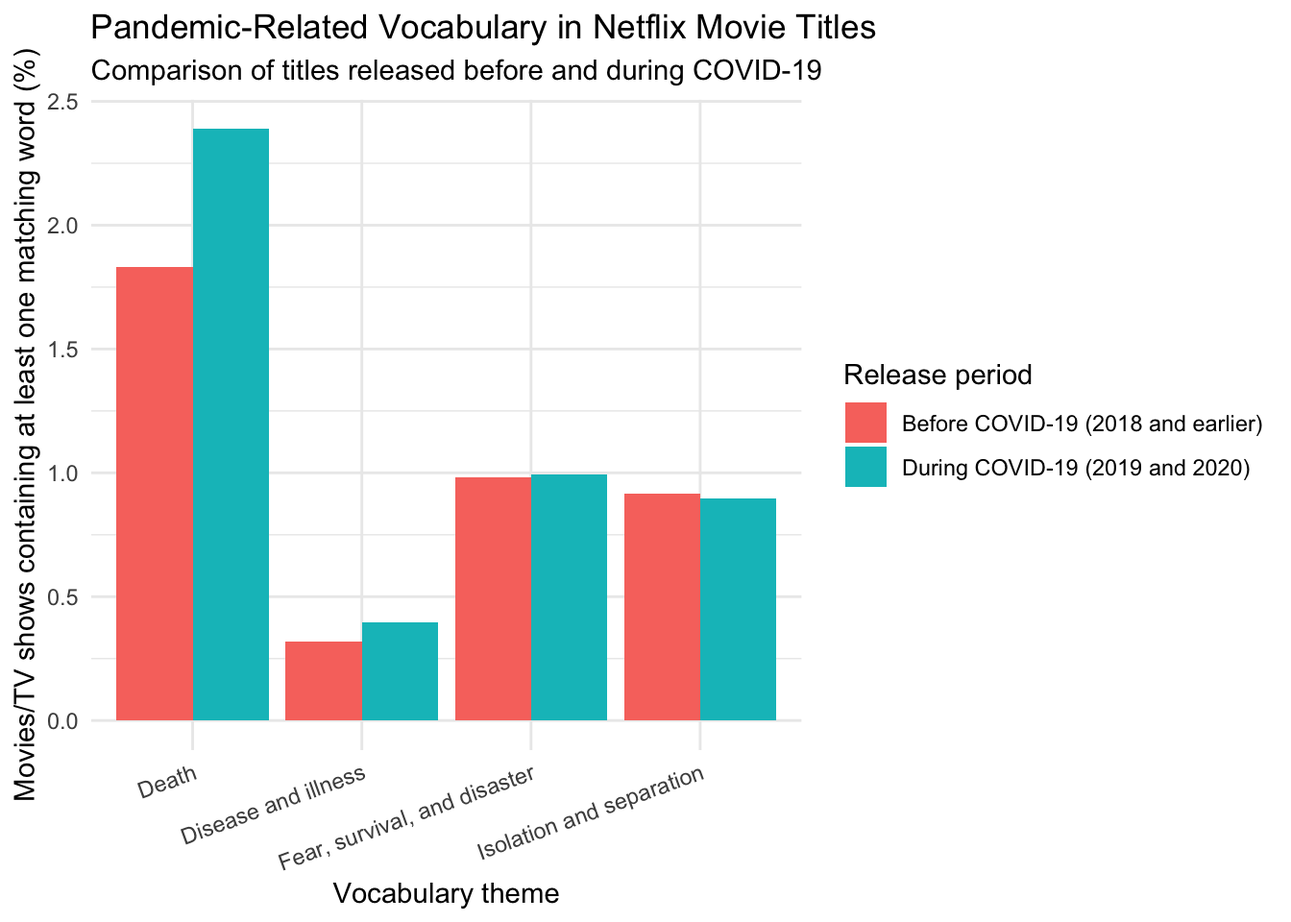
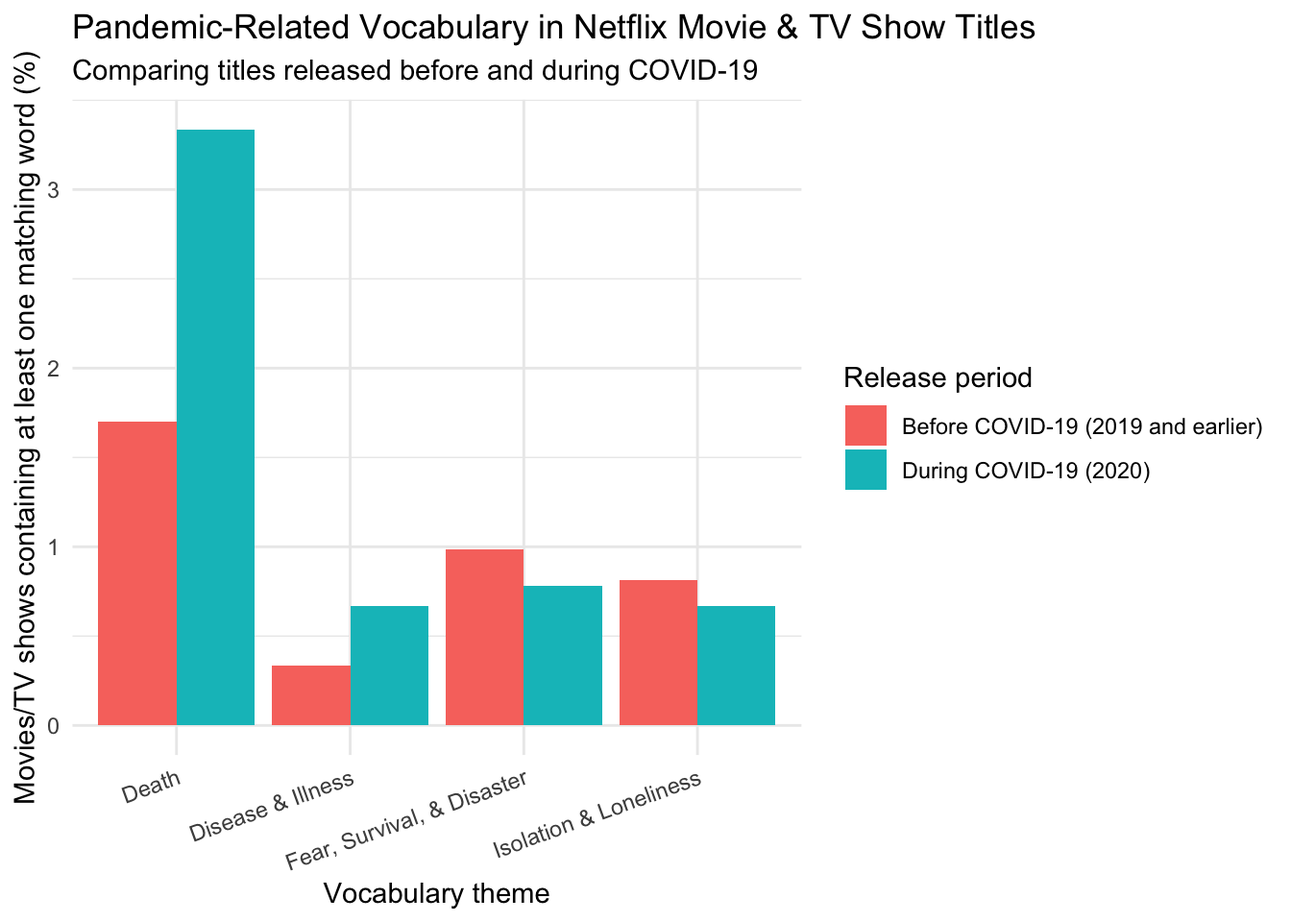
more edits to my analysis of the visualizations

diff --git a/docs/netflixanalysis.html b/docs/netflixanalysis.html
@@ -409,13 +409,14 @@ pre > code.sourceCode > span > a:first-child::before { text-decoration: underlin
 </div>
 <section id="introduction" class="level1">
 <h1>Introduction</h1>
-<p>Movie and TV show titles are the first things users look at when trying to decide what to watch on streaming platforms like Netflix. While titles are often short, they are meant to draw audiences in, convince them to watch a movie/show, and hint at what the movie might be about. Thus, for my project, I am looking at what types of words occur in titles throughout genres and during different time periods, to see ___.</p>
+<p>Movie and TV show titles are the first things users look at when trying to decide what to watch on streaming platforms like Netflix. While titles are often short, they are meant to draw audiences in, convince them to watch a movie/show, and hint at what the movie might be about. Thus, for my project, I am looking at the words that appear in Netflix titles across genres and release years to explore how title vocabulary varies across genres and whether the prevalence of specific word themes differs between movies released in different time periods.</p>
 <p>My first visualization explores the most frequent words that appear in titles across genres. Specifically, I am looking at 14 genres: Action, Comedy, Drama, Horror, Romance, Sci-Fi &amp; Fantasy, Thriller, Mystery, Documentaries, Musical, Crime, Family, International, and Miscellaneous.</p>
 <p>Next, I will look at how title vocabulary changed before and during Covid-19. Specifically, I want to see whether words that center around disease, death, isolation, and other pandemic-related imagery were more common in movie titles during Covid as opposed to before.</p>
 </section>
 <section id="about-the-data" class="level1">
 <h1>About the Data</h1>
 <p>The data for this analysis come from the <a href="https://github.com/rfordatascience/tidytuesday/tree/main/data/2021/2021-04-20">TidyTuesday Netflix Titles dataset</a>.</p>
+<p>The dataset was also uploaded to Kaggle by Shivam Bansal. Here is the link to this <a href="https://www.kaggle.com/datasets/shivamb/netflix-shows">Kaggle Netflix Dataset by Shivam Bansal</a>.</p>
 <section id="about-the-dataset" class="level3">
 <h3 class="anchored" data-anchor-id="about-the-dataset">About the Dataset</h3>
 <p>This dataset comes from Kaggle and was uploaded to the website by Shivam Bansal. The dataset consists of movies and TV shows available on Netflix as of 2020. Additionally, the dataset has been collected from Flixable, a third-party Netflix search engine.</p>
@@ -431,39 +432,38 @@ pre > code.sourceCode > span > a:first-child::before { text-decoration: underlin
 <span id="cb2-2"><a href="#cb2-2" aria-hidden="true" tabindex="-1"></a>cleaned_titles <span class="ot">&lt;-</span> netflix_titles <span class="sc">|&gt;</span></span>
 <span id="cb2-3"><a href="#cb2-3" aria-hidden="true" tabindex="-1"></a>    <span class="fu">select</span>(show_id, type, title, listed_in, release_year) <span class="sc">|&gt;</span></span>
 <span id="cb2-4"><a href="#cb2-4" aria-hidden="true" tabindex="-1"></a>    <span class="fu">filter</span>(<span class="sc">!</span><span class="fu">is.na</span>(title), <span class="sc">!</span><span class="fu">is.na</span>(listed_in)) <span class="sc">|&gt;</span></span>
-<span id="cb2-5"><a href="#cb2-5" aria-hidden="true" tabindex="-1"></a>    <span class="fu">separate_rows</span>(listed_in, <span class="at">sep =</span> <span class="st">", "</span>) <span class="sc">|&gt;</span></span>
-<span id="cb2-6"><a href="#cb2-6" aria-hidden="true" tabindex="-1"></a>    <span class="fu">separate_rows</span>(listed_in, <span class="at">sep =</span> <span class="st">"&amp; "</span>)</span>
-<span id="cb2-7"><a href="#cb2-7" aria-hidden="true" tabindex="-1"></a></span>
-<span id="cb2-8"><a href="#cb2-8" aria-hidden="true" tabindex="-1"></a><span class="co">#adding variables and formatting the cleaned_titles dataset</span></span>
-<span id="cb2-9"><a href="#cb2-9" aria-hidden="true" tabindex="-1"></a>cleaned_titles <span class="ot">&lt;-</span> cleaned_titles <span class="sc">|&gt;</span></span>
-<span id="cb2-10"><a href="#cb2-10" aria-hidden="true" tabindex="-1"></a>    <span class="fu">mutate</span>(<span class="at">listed_in =</span> <span class="fu">str_to_lower</span>(listed_in)) <span class="sc">|&gt;</span> <span class="co">#string function 1</span></span>
-<span id="cb2-11"><a href="#cb2-11" aria-hidden="true" tabindex="-1"></a>    <span class="fu">mutate</span>(<span class="at">genre =</span> <span class="fu">ifelse</span>(</span>
-<span id="cb2-12"><a href="#cb2-12" aria-hidden="true" tabindex="-1"></a>            <span class="fu">str_detect</span>(listed_in, <span class="st">"action"</span>) <span class="sc">|</span> <span class="fu">str_detect</span>(listed_in, <span class="st">"adventure"</span>), <span class="st">"Action"</span>, <span class="co">#string function 2</span></span>
-<span id="cb2-13"><a href="#cb2-13" aria-hidden="true" tabindex="-1"></a></span>
-<span id="cb2-14"><a href="#cb2-14" aria-hidden="true" tabindex="-1"></a>            <span class="fu">ifelse</span>(<span class="fu">str_detect</span>(listed_in, <span class="st">"comed"</span>), <span class="st">"Comedy"</span>,</span>
-<span id="cb2-15"><a href="#cb2-15" aria-hidden="true" tabindex="-1"></a></span>
-<span id="cb2-16"><a href="#cb2-16" aria-hidden="true" tabindex="-1"></a>            <span class="fu">ifelse</span>(<span class="fu">str_detect</span>(listed_in, <span class="st">"drama"</span>), <span class="st">"Drama"</span>,</span>
-<span id="cb2-17"><a href="#cb2-17" aria-hidden="true" tabindex="-1"></a></span>
-<span id="cb2-18"><a href="#cb2-18" aria-hidden="true" tabindex="-1"></a>            <span class="fu">ifelse</span>(<span class="fu">str_detect</span>(listed_in, <span class="st">"horror"</span>), <span class="st">"Horror"</span>,</span>
-<span id="cb2-19"><a href="#cb2-19" aria-hidden="true" tabindex="-1"></a></span>
-<span id="cb2-20"><a href="#cb2-20" aria-hidden="true" tabindex="-1"></a>            <span class="fu">ifelse</span>(<span class="fu">str_detect</span>(listed_in, <span class="st">"romant"</span>), <span class="st">"Romance"</span>,</span>
-<span id="cb2-21"><a href="#cb2-21" aria-hidden="true" tabindex="-1"></a></span>
-<span id="cb2-22"><a href="#cb2-22" aria-hidden="true" tabindex="-1"></a>            <span class="fu">ifelse</span>(<span class="fu">str_detect</span>(listed_in, <span class="st">"sci-fi"</span>) <span class="sc">|</span> <span class="fu">str_detect</span>(listed_in, <span class="st">"fantasy"</span>), <span class="st">"Sci-Fi &amp; Fantasy"</span>,</span>
-<span id="cb2-23"><a href="#cb2-23" aria-hidden="true" tabindex="-1"></a></span>
-<span id="cb2-24"><a href="#cb2-24" aria-hidden="true" tabindex="-1"></a>            <span class="fu">ifelse</span>(<span class="fu">str_detect</span>(listed_in, <span class="st">"thriller"</span>), <span class="st">"Thriller"</span>,</span>
-<span id="cb2-25"><a href="#cb2-25" aria-hidden="true" tabindex="-1"></a></span>
-<span id="cb2-26"><a href="#cb2-26" aria-hidden="true" tabindex="-1"></a>            <span class="fu">ifelse</span>(<span class="fu">str_detect</span>(listed_in, <span class="st">"myster"</span>), <span class="st">"Mystery"</span>,</span>
-<span id="cb2-27"><a href="#cb2-27" aria-hidden="true" tabindex="-1"></a></span>
-<span id="cb2-28"><a href="#cb2-28" aria-hidden="true" tabindex="-1"></a>            <span class="fu">ifelse</span>(<span class="fu">str_detect</span>(listed_in, <span class="st">"docu"</span>) <span class="sc">|</span> <span class="fu">str_detect</span>(listed_in, <span class="st">"nature"</span>) <span class="sc">|</span> <span class="fu">str_detect</span>(listed_in, <span class="st">"science"</span>), <span class="st">"Documentary"</span>,</span>
-<span id="cb2-29"><a href="#cb2-29" aria-hidden="true" tabindex="-1"></a></span>
-<span id="cb2-30"><a href="#cb2-30" aria-hidden="true" tabindex="-1"></a>            <span class="fu">ifelse</span>(<span class="fu">str_detect</span>(listed_in, <span class="st">"music"</span>), <span class="st">"Musical"</span>,</span>
-<span id="cb2-31"><a href="#cb2-31" aria-hidden="true" tabindex="-1"></a></span>
-<span id="cb2-32"><a href="#cb2-32" aria-hidden="true" tabindex="-1"></a>            <span class="fu">ifelse</span>(<span class="fu">str_detect</span>(listed_in, <span class="st">"crime"</span>), <span class="st">"Crime"</span>,</span>
-<span id="cb2-33"><a href="#cb2-33" aria-hidden="true" tabindex="-1"></a></span>
-<span id="cb2-34"><a href="#cb2-34" aria-hidden="true" tabindex="-1"></a>            <span class="fu">ifelse</span>(<span class="fu">str_detect</span>(listed_in, <span class="st">"children"</span>) <span class="sc">|</span> <span class="fu">str_detect</span>(listed_in, <span class="st">"kid"</span>) <span class="sc">|</span> <span class="fu">str_detect</span>(listed_in, <span class="st">"teen"</span>) <span class="sc">|</span> <span class="fu">str_detect</span>(listed_in, <span class="st">"family"</span>), <span class="st">"Family"</span>, </span>
-<span id="cb2-35"><a href="#cb2-35" aria-hidden="true" tabindex="-1"></a></span>
-<span id="cb2-36"><a href="#cb2-36" aria-hidden="true" tabindex="-1"></a>            <span class="fu">ifelse</span>(<span class="fu">str_detect</span>(listed_in, <span class="st">"international"</span>) <span class="sc">|</span> <span class="fu">str_detect</span>(listed_in, <span class="st">"british"</span>) <span class="sc">|</span> <span class="fu">str_detect</span>(listed_in, <span class="st">"korean"</span>) <span class="sc">|</span> <span class="fu">str_detect</span>(listed_in, <span class="st">"spanish"</span>), <span class="st">"International"</span>,</span>
-<span id="cb2-37"><a href="#cb2-37" aria-hidden="true" tabindex="-1"></a>            <span class="st">"Miscellaneous"</span>))))))))))))))</span></code></pre></div><button title="Copy to Clipboard" class="code-copy-button"><i class="bi"></i></button></div>
+<span id="cb2-5"><a href="#cb2-5" aria-hidden="true" tabindex="-1"></a>    <span class="fu">separate_rows</span>(listed_in, <span class="at">sep =</span> <span class="st">", "</span>)</span>
+<span id="cb2-6"><a href="#cb2-6" aria-hidden="true" tabindex="-1"></a></span>
+<span id="cb2-7"><a href="#cb2-7" aria-hidden="true" tabindex="-1"></a><span class="co">#adding variables and formatting the cleaned_titles dataset</span></span>
+<span id="cb2-8"><a href="#cb2-8" aria-hidden="true" tabindex="-1"></a>cleaned_titles <span class="ot">&lt;-</span> cleaned_titles <span class="sc">|&gt;</span></span>
+<span id="cb2-9"><a href="#cb2-9" aria-hidden="true" tabindex="-1"></a>    <span class="fu">mutate</span>(<span class="at">listed_in =</span> <span class="fu">str_to_lower</span>(listed_in)) <span class="sc">|&gt;</span> <span class="co">#string function 1</span></span>
+<span id="cb2-10"><a href="#cb2-10" aria-hidden="true" tabindex="-1"></a>    <span class="fu">mutate</span>(<span class="at">genre =</span> <span class="fu">ifelse</span>(</span>
+<span id="cb2-11"><a href="#cb2-11" aria-hidden="true" tabindex="-1"></a>            <span class="fu">str_detect</span>(listed_in, <span class="st">"action"</span>), <span class="st">"Action"</span>, <span class="co">#string function 2</span></span>
+<span id="cb2-12"><a href="#cb2-12" aria-hidden="true" tabindex="-1"></a></span>
+<span id="cb2-13"><a href="#cb2-13" aria-hidden="true" tabindex="-1"></a>            <span class="fu">ifelse</span>(<span class="fu">str_detect</span>(listed_in, <span class="st">"comed"</span>), <span class="st">"Comedy"</span>,</span>
+<span id="cb2-14"><a href="#cb2-14" aria-hidden="true" tabindex="-1"></a></span>
+<span id="cb2-15"><a href="#cb2-15" aria-hidden="true" tabindex="-1"></a>            <span class="fu">ifelse</span>(<span class="fu">str_detect</span>(listed_in, <span class="st">"drama"</span>), <span class="st">"Drama"</span>,</span>
+<span id="cb2-16"><a href="#cb2-16" aria-hidden="true" tabindex="-1"></a></span>
+<span id="cb2-17"><a href="#cb2-17" aria-hidden="true" tabindex="-1"></a>            <span class="fu">ifelse</span>(<span class="fu">str_detect</span>(listed_in, <span class="st">"horror"</span>), <span class="st">"Horror"</span>,</span>
+<span id="cb2-18"><a href="#cb2-18" aria-hidden="true" tabindex="-1"></a></span>
+<span id="cb2-19"><a href="#cb2-19" aria-hidden="true" tabindex="-1"></a>            <span class="fu">ifelse</span>(<span class="fu">str_detect</span>(listed_in, <span class="st">"romant"</span>), <span class="st">"Romance"</span>,</span>
+<span id="cb2-20"><a href="#cb2-20" aria-hidden="true" tabindex="-1"></a></span>
+<span id="cb2-21"><a href="#cb2-21" aria-hidden="true" tabindex="-1"></a>            <span class="fu">ifelse</span>(<span class="fu">str_detect</span>(listed_in, <span class="st">"sci-fi"</span>) <span class="sc">|</span> <span class="fu">str_detect</span>(listed_in, <span class="st">"fantasy"</span>), <span class="st">"Sci-Fi &amp; Fantasy"</span>,</span>
+<span id="cb2-22"><a href="#cb2-22" aria-hidden="true" tabindex="-1"></a></span>
+<span id="cb2-23"><a href="#cb2-23" aria-hidden="true" tabindex="-1"></a>            <span class="fu">ifelse</span>(<span class="fu">str_detect</span>(listed_in, <span class="st">"thriller"</span>), <span class="st">"Thriller"</span>,</span>
+<span id="cb2-24"><a href="#cb2-24" aria-hidden="true" tabindex="-1"></a></span>
+<span id="cb2-25"><a href="#cb2-25" aria-hidden="true" tabindex="-1"></a>            <span class="fu">ifelse</span>(<span class="fu">str_detect</span>(listed_in, <span class="st">"myster"</span>), <span class="st">"Mystery"</span>,</span>
+<span id="cb2-26"><a href="#cb2-26" aria-hidden="true" tabindex="-1"></a></span>
+<span id="cb2-27"><a href="#cb2-27" aria-hidden="true" tabindex="-1"></a>            <span class="fu">ifelse</span>(<span class="fu">str_detect</span>(listed_in, <span class="st">"docu"</span>) <span class="sc">|</span> <span class="fu">str_detect</span>(listed_in, <span class="st">"nature"</span>) <span class="sc">|</span> <span class="fu">str_detect</span>(listed_in, <span class="st">"science"</span>), <span class="st">"Documentary"</span>,</span>
+<span id="cb2-28"><a href="#cb2-28" aria-hidden="true" tabindex="-1"></a></span>
+<span id="cb2-29"><a href="#cb2-29" aria-hidden="true" tabindex="-1"></a>            <span class="fu">ifelse</span>(<span class="fu">str_detect</span>(listed_in, <span class="st">"music"</span>), <span class="st">"Musical"</span>,</span>
+<span id="cb2-30"><a href="#cb2-30" aria-hidden="true" tabindex="-1"></a></span>
+<span id="cb2-31"><a href="#cb2-31" aria-hidden="true" tabindex="-1"></a>            <span class="fu">ifelse</span>(<span class="fu">str_detect</span>(listed_in, <span class="st">"crime"</span>), <span class="st">"Crime"</span>,</span>
+<span id="cb2-32"><a href="#cb2-32" aria-hidden="true" tabindex="-1"></a></span>
+<span id="cb2-33"><a href="#cb2-33" aria-hidden="true" tabindex="-1"></a>            <span class="fu">ifelse</span>(<span class="fu">str_detect</span>(listed_in, <span class="st">"children"</span>) <span class="sc">|</span> <span class="fu">str_detect</span>(listed_in, <span class="st">"kid"</span>) <span class="sc">|</span> <span class="fu">str_detect</span>(listed_in, <span class="st">"teen"</span>) <span class="sc">|</span> <span class="fu">str_detect</span>(listed_in, <span class="st">"family"</span>), <span class="st">"Family"</span>, </span>
+<span id="cb2-34"><a href="#cb2-34" aria-hidden="true" tabindex="-1"></a></span>
+<span id="cb2-35"><a href="#cb2-35" aria-hidden="true" tabindex="-1"></a>            <span class="fu">ifelse</span>(<span class="fu">str_detect</span>(listed_in, <span class="st">"international"</span>) <span class="sc">|</span> <span class="fu">str_detect</span>(listed_in, <span class="st">"british"</span>) <span class="sc">|</span> <span class="fu">str_detect</span>(listed_in, <span class="st">"korean"</span>) <span class="sc">|</span> <span class="fu">str_detect</span>(listed_in, <span class="st">"spanish"</span>), <span class="st">"International"</span>,</span>
+<span id="cb2-36"><a href="#cb2-36" aria-hidden="true" tabindex="-1"></a>            <span class="st">"Miscellaneous"</span>))))))))))))))</span></code></pre></div><button title="Copy to Clipboard" class="code-copy-button"><i class="bi"></i></button></div>
 </details>
 </div>
 <section id="visualization-1" class="level2">
@@ -515,8 +515,8 @@ pre > code.sourceCode > span > a:first-child::before { text-decoration: underlin
 </div>
 </div>
 <p>For this first visualization, I wanted to see how the most frequent words in movie/TV show titles differed across the various genres I chose. To do so, I sorted each of the 42 “listed_in” categories in the original dataset into 14 genres (Action, Comedy, Drama, Horror, Romance, Sci-Fi &amp; Fantasy, Thriller, Mystery, Documentaries, Musical, Crime, Family, International, and Miscellaneous) and identified the top 3 words that appeared in movie titles within all of these genres.</p>
-<p>Some of the results I found were expected, such as with the crime genre’s most popular words in titles (“murder”, “killer”, and “crime”) or with the words in the documentary genre (“world”, “story”, “life”). Additionally, there are words that appear throughout many genres, like “love” and “christmas”. However, the visual also shows us that many of the genres have titles with unintuitive words. For example, “black” is a word that shows up in many tites across genres, but I can’t think of why that is.</p>
-<p>Ultimately, looking at this visual, it is clear that the connotations of words are considered when creating titles across genres. For example, words like “christmas” evoke feelings of comfort and joy, and these words are most frequently in romance, comedy, and family titles. On the other hand, words like “murder” and “killer” in movie/TV show titles suggest the title will be a crime-related story, and words like “house” and “dark” used in combination can suggest a horror/thriller title.</p>
+<p>Some of the results I found were expected, such as with the crime genre’s most popular words in titles (“murder”, “killer”, and “crime”) or with the words in the documentary genre (“world”, “story”, “life”). Additionally, there are words that appear throughout many genres, like “love” and “christmas”. However, the visual also shows us that many of the genres have titles with unintuitive words. For example, “black” is a word that shows up in many titles across genres, but I can’t think of why that is.</p>
+<p>Ultimately, this visualization suggests that title vocabulary reflects some of the themes and feelings associated with different genres. For example, words like “christmas” evoke feelings of comfort and joy, and these words are most frequently in romance, comedy, and family titles. On the other hand, words like “murder” and “killer” in movie/TV show titles suggest the title will be a crime-related story, and words like “house” and “dark” used in combination can suggest a horror/thriller title.</p>
 </section>
 <section id="visualization-2" class="level2">
 <h2 class="anchored" data-anchor-id="visualization-2">Visualization 2</h2>
@@ -525,12 +525,12 @@ pre > code.sourceCode > span > a:first-child::before { text-decoration: underlin
 <summary>Show the code</summary>
 <div class="code-copy-outer-scaffold"><div class="sourceCode cell-code" id="cb4"><pre class="sourceCode r code-with-copy"><code class="sourceCode r"><span id="cb4-1"><a href="#cb4-1" aria-hidden="true" tabindex="-1"></a><span class="co"># Select movies with known release years</span></span>
 <span id="cb4-2"><a href="#cb4-2" aria-hidden="true" tabindex="-1"></a>covid_titles <span class="ot">&lt;-</span> netflix_titles <span class="sc">|&gt;</span></span>
-<span id="cb4-3"><a href="#cb4-3" aria-hidden="true" tabindex="-1"></a>    <span class="fu">filter</span>(type <span class="sc">==</span> <span class="st">"Movie"</span>, <span class="sc">!</span><span class="fu">is.na</span>(title),<span class="sc">!</span><span class="fu">is.na</span>(release_year)) <span class="sc">|&gt;</span></span>
-<span id="cb4-4"><a href="#cb4-4" aria-hidden="true" tabindex="-1"></a>    <span class="fu">mutate</span>(<span class="at">period =</span> <span class="fu">ifelse</span>(release_year <span class="sc">&lt;=</span> <span class="dv">2018</span>, <span class="st">"Before COVID-19 (2018 and earlier)"</span>, <span class="st">"During COVID-19 (2019 and 2020)"</span>)) <span class="sc">|&gt;</span></span>
+<span id="cb4-3"><a href="#cb4-3" aria-hidden="true" tabindex="-1"></a>    <span class="fu">filter</span>(<span class="sc">!</span><span class="fu">is.na</span>(title),<span class="sc">!</span><span class="fu">is.na</span>(release_year)) <span class="sc">|&gt;</span></span>
+<span id="cb4-4"><a href="#cb4-4" aria-hidden="true" tabindex="-1"></a>    <span class="fu">mutate</span>(<span class="at">period =</span> <span class="fu">ifelse</span>(release_year <span class="sc">&lt;=</span> <span class="dv">2019</span>, <span class="st">"Before COVID-19 (2019 and earlier)"</span>, <span class="st">"During COVID-19 (2020)"</span>)) <span class="sc">|&gt;</span></span>
 <span id="cb4-5"><a href="#cb4-5" aria-hidden="true" tabindex="-1"></a></span>
 <span id="cb4-6"><a href="#cb4-6" aria-hidden="true" tabindex="-1"></a>    <span class="fu">mutate</span>(<span class="at">disease =</span> <span class="fu">str_detect</span>(<span class="fu">str_to_lower</span>(title), <span class="st">"</span><span class="sc">\\</span><span class="st">b(covid|coronavirus|virus|viral|pandemic|epidemic|infection|infected|infectious|disease|plague|outbreak|fever|sick|sickness|illness|ill|contagion|contagious|germ|symptom|cough|flu|influenza|bacteria|bacterial|vaccine|vaccination|quarantine|inject|injection|shot|hospital|nurse|doctor)</span><span class="sc">\\</span><span class="st">b"</span>))<span class="sc">|&gt;</span></span>
 <span id="cb4-7"><a href="#cb4-7" aria-hidden="true" tabindex="-1"></a>    </span>
-<span id="cb4-8"><a href="#cb4-8" aria-hidden="true" tabindex="-1"></a>    <span class="fu">mutate</span>(<span class="at">death =</span> <span class="fu">str_detect</span>(<span class="fu">str_to_lower</span>(title),<span class="st">"</span><span class="sc">\\</span><span class="st">b(death|dead|dying|die|died|dies|funeral|grave|graveyard|morgue|corpse|cemetery|burial|bury|buried|murder|murdered|killer|kill|killed|suicide|fatal|fatality|gore|blood|bloody|massacre|killing|slaughter)</span><span class="sc">\\</span><span class="st">b"</span>)) <span class="sc">|&gt;</span></span>
+<span id="cb4-8"><a href="#cb4-8" aria-hidden="true" tabindex="-1"></a>    <span class="fu">mutate</span>(<span class="at">death =</span> <span class="fu">str_detect</span>(<span class="fu">str_to_lower</span>(title),<span class="st">"</span><span class="sc">\\</span><span class="st">b(death|dead|dying|die|died|dies|funeral|grave|graveyard|morgue|corpse|cemetery|burial|bury|buried|murder|murdered|killer|kill|killed|suicide|fatal|fatality|blood|bloody)</span><span class="sc">\\</span><span class="st">b"</span>)) <span class="sc">|&gt;</span></span>
 <span id="cb4-9"><a href="#cb4-9" aria-hidden="true" tabindex="-1"></a>    </span>
 <span id="cb4-10"><a href="#cb4-10" aria-hidden="true" tabindex="-1"></a>    <span class="fu">mutate</span>(<span class="at">isolation =</span> <span class="fu">str_detect</span>(<span class="fu">str_to_lower</span>(title),<span class="st">"</span><span class="sc">\\</span><span class="st">b(alone|lonely|loneliness|isolation|isolated|quarantine|lockdown|trapped|confined|separated|solitude|abandoned|stranded|deserted|hidden|missing|escape|prison|captive|imprisoned|locked|room|cabin|shelter|exile|outsider|cage|lone|lock)</span><span class="sc">\\</span><span class="st">b"</span>)) <span class="sc">|&gt;</span></span>
 <span id="cb4-11"><a href="#cb4-11" aria-hidden="true" tabindex="-1"></a></span>
@@ -553,15 +553,15 @@ pre > code.sourceCode > span > a:first-child::before { text-decoration: underlin
 <span id="cb4-28"><a href="#cb4-28" aria-hidden="true" tabindex="-1"></a>covid_word_counts <span class="ot">&lt;-</span> covid_word_counts <span class="sc">|&gt;</span></span>
 <span id="cb4-29"><a href="#cb4-29" aria-hidden="true" tabindex="-1"></a>    <span class="fu">left_join</span>(period_totals, <span class="at">by =</span> <span class="st">"period"</span>) <span class="sc">|&gt;</span></span>
 <span id="cb4-30"><a href="#cb4-30" aria-hidden="true" tabindex="-1"></a>    <span class="fu">mutate</span>(<span class="at">percentage =</span> titles_with_words <span class="sc">/</span> total_titles <span class="sc">*</span> <span class="dv">100</span>,</span>
-<span id="cb4-31"><a href="#cb4-31" aria-hidden="true" tabindex="-1"></a>           <span class="at">theme =</span> <span class="fu">ifelse</span>(theme <span class="sc">==</span> <span class="st">"disease"</span>, <span class="st">"Disease and illness"</span>, <span class="fu">ifelse</span>(theme <span class="sc">==</span> <span class="st">"death"</span>, <span class="st">"Death"</span>,<span class="fu">ifelse</span>(theme <span class="sc">==</span> <span class="st">"isolation"</span>, <span class="st">"Isolation and separation"</span>, <span class="st">"Fear, survival, and disaster"</span>)))</span>
+<span id="cb4-31"><a href="#cb4-31" aria-hidden="true" tabindex="-1"></a>           <span class="at">theme =</span> <span class="fu">ifelse</span>(theme <span class="sc">==</span> <span class="st">"disease"</span>, <span class="st">"Disease &amp; Illness"</span>, <span class="fu">ifelse</span>(theme <span class="sc">==</span> <span class="st">"death"</span>, <span class="st">"Death"</span>, <span class="fu">ifelse</span>(theme <span class="sc">==</span> <span class="st">"isolation"</span>, <span class="st">"Isolation &amp; Loneliness"</span>, <span class="st">"Fear, Survival, &amp; Disaster"</span>)))</span>
 <span id="cb4-32"><a href="#cb4-32" aria-hidden="true" tabindex="-1"></a>          )</span>
 <span id="cb4-33"><a href="#cb4-33" aria-hidden="true" tabindex="-1"></a></span>
 <span id="cb4-34"><a href="#cb4-34" aria-hidden="true" tabindex="-1"></a><span class="co">#making the plot</span></span>
 <span id="cb4-35"><a href="#cb4-35" aria-hidden="true" tabindex="-1"></a><span class="fu">ggplot</span>(covid_word_counts, <span class="fu">aes</span>(<span class="at">x =</span> theme, <span class="at">y =</span> percentage, <span class="at">fill =</span> period)) <span class="sc">+</span> </span>
 <span id="cb4-36"><a href="#cb4-36" aria-hidden="true" tabindex="-1"></a>    <span class="fu">geom_col</span>(<span class="at">position =</span> <span class="st">"dodge"</span>) <span class="sc">+</span></span>
 <span id="cb4-37"><a href="#cb4-37" aria-hidden="true" tabindex="-1"></a>    <span class="fu">labs</span>(</span>
-<span id="cb4-38"><a href="#cb4-38" aria-hidden="true" tabindex="-1"></a>        <span class="at">title =</span> <span class="st">"Pandemic-Related Vocabulary in Netflix Movie Titles"</span>,</span>
-<span id="cb4-39"><a href="#cb4-39" aria-hidden="true" tabindex="-1"></a>        <span class="at">subtitle =</span> <span class="st">"Comparison of titles released before and during COVID-19"</span>,</span>
+<span id="cb4-38"><a href="#cb4-38" aria-hidden="true" tabindex="-1"></a>        <span class="at">title =</span> <span class="st">"Pandemic-Related Vocabulary in Netflix Movie &amp; TV Show Titles"</span>,</span>
+<span id="cb4-39"><a href="#cb4-39" aria-hidden="true" tabindex="-1"></a>        <span class="at">subtitle =</span> <span class="st">"Comparing titles released before and during COVID-19"</span>,</span>
 <span id="cb4-40"><a href="#cb4-40" aria-hidden="true" tabindex="-1"></a>        <span class="at">x =</span> <span class="st">"Vocabulary theme"</span>,</span>
 <span id="cb4-41"><a href="#cb4-41" aria-hidden="true" tabindex="-1"></a>        <span class="at">y =</span> <span class="st">"Movies/TV shows containing at least one matching word (%)"</span>,</span>
 <span id="cb4-42"><a href="#cb4-42" aria-hidden="true" tabindex="-1"></a>        <span class="at">fill =</span> <span class="st">"Release period"</span>,</span>
@@ -577,9 +577,9 @@ pre > code.sourceCode > span > a:first-child::before { text-decoration: underlin
 </div>
 </div>
 </div>
-<p>For the second visual, I wanted to see if there was a difference in the types of words in titles before and during Covid-19. Thus, I created four categories of pandemic-related words: words surrounding death, words about diseases, words corresponding with fear, survival, and disaster, and finally, words associated with being isolated. Movies/TV shows that were released in 2018 or before, I classified as “Before Covid”, and any movies/shows released from 2019 and 2020 were considered “During Covid” titles. Each bar chart on this visual represents the percentage of titles within each time period that have words that fit in each of these categories.</p>
-<p>From the visual, we can see that there was a bit of a spike in the percentage of movie/show titles that contained words associated with death during Covid. Specifically, around 1.75% of all movies released before 2018 contained words associated with death, while around 2.3% of movies released in 2019 and 2020 had titles with words related to death. There is also an increase in the percentage of movie/show titles that contained words associated with disease during Covid, with 0.25% of titles containing words associated with illness before 2018 and around 0.375% of titles containing these types of words during Covid. However, the other two categories do not show a significant change in percentage of titles containing these words between the two time periods.</p>
-<p>While it’s possible Covid could have influenced this increase, we cannot determine causality from this bar chart. First, words associated with these categories are subjective, and I only included a handful of words that I personally thought fit in the groups. Also, this dataset only includes titles released in 2020 and before, meaning the “before Covid” category has a much larger number of movies that could match the groups than the “during Covid” group does. Therefore, while the bar chart does show us that movies and shows during Covid have a higher percentage of pandemic-related words, the differences are not significant enough to prove anything.</p>
+<p>For the second visual, I wanted to see if there was a difference in the types of words in titles before and during Covid-19. Thus, I created four categories of pandemic-related words: words surrounding death, words about diseases, words corresponding with fear, survival, and disaster, and finally, words associated with being isolated. Movies/TV shows that were released in 2019 or before, I classified as “Before Covid”, and any movies/shows released from 2020 were considered “During Covid” titles. Each bar chart on this visual represents the percentage of titles within each time period that have words that fit in each of these categories.</p>
+<p>From the visual, we can see that there was a bit of a spike in the percentage of movie/show titles that contained words associated with death during Covid. Specifically, around 1.75% of all movies released before 2019 contained words associated with death, while around 3.2% of movies released in 2020 had titles with words related to death. There is also an increase in the percentage of movie/show titles that contained words associated with disease during Covid, with around 0.10% of titles containing words associated with illness before 2019 and around 0.70% of titles containing these types of words during Covid. However, the other two categories do not show a significant increase in percentage of titles containing these words between the two time periods, with the percentage of titles containing isolation themes actually decreasing between before and during Covid.</p>
+<p>While it’s possible Covid could have influenced this increase, we cannot determine causality from this bar chart. First, what people classify as pandemic-related vocabulary is subjective, and I only included a handful of words that I personally thought would fit in the pandemic/health/death theme. Also, this dataset only includes titles released in 2020 and before, meaning the “before Covid” category has a much larger number of movies that could match the groups than the “during Covid” group does. Therefore, while the bar chart does show us that movies and shows during Covid have a higher percentage of pandemic-related words, we cannot establish causality between COVID-19 and any changes in movie/show titles.</p>
 
 
 </section>

diff --git a/docs/cheese.html b/docs/cheese.html
@@ -120,7 +120,7 @@ pre > code.sourceCode > span > a:first-child::before { text-decoration: underlin
 <link rel="stylesheet" href="styles.css">
 </head>
 
-<body class="quarto-light"><script id="quarto-html-before-body" type="application/javascript">
+<body class="nav-fixed quarto-light"><script id="quarto-html-before-body" type="application/javascript">
     const toggleBodyColorMode = (bsSheetEl) => {
       const mode = bsSheetEl.getAttribute("data-mode");
       const bodyEl = window.document.querySelector("body");
@@ -285,8 +285,60 @@ pre > code.sourceCode > span > a:first-child::before { text-decoration: underlin
   </script>
 
 <div id="quarto-search-results"></div>
+  <header id="quarto-header" class="headroom fixed-top">
+    <nav class="navbar navbar-expand-lg " data-bs-theme="dark">
+      <div class="navbar-container container-fluid">
+      <div class="navbar-brand-container mx-auto">
+    <a class="navbar-brand" href="./index.html">
+    <span class="navbar-title">Neha Dixit</span>
+    </a>
+  </div>
+            <div id="quarto-search" class="" title="Search"></div>
+          <button class="navbar-toggler" type="button" data-bs-toggle="collapse" data-bs-target="#navbarCollapse" aria-controls="navbarCollapse" role="menu" aria-expanded="false" aria-label="Toggle navigation" onclick="if (window.quartoToggleHeadroom) { window.quartoToggleHeadroom(); }">
+  <span class="navbar-toggler-icon"></span>
+</button>
+          <div class="collapse navbar-collapse" id="navbarCollapse">
+            <ul class="navbar-nav navbar-nav-scroll me-auto">
+  <li class="nav-item">
+    <a class="nav-link" href="./index.html"> 
+<span class="menu-text">Home</span></a>
+  </li>  
+  <li class="nav-item">
+    <a class="nav-link" href="./about.html"> 
+<span class="menu-text">About</span></a>
+  </li>  
+  <li class="nav-item dropdown ">
+    <a class="nav-link dropdown-toggle" href="#" id="nav-menu-data-viz" role="link" data-bs-toggle="dropdown" aria-expanded="false">
+ <span class="menu-text">Data Viz</span>
+    </a>
+    <ul class="dropdown-menu" aria-labelledby="nav-menu-data-viz">    
+        <li class="dropdown-header">Cheese</li>
+        <li>
+    <a class="dropdown-item" href="./cheese.html">
+ <span class="dropdown-text">Cheese</span></a>
+  </li>  
+        <li class="dropdown-header">Edible Plants</li>
+        <li>
+    <a class="dropdown-item" href="./edibleplants.html">
+ <span class="dropdown-text">Edible Plants</span></a>
+  </li>  
+        <li class="dropdown-header">Netflix Title Analysis</li>
+        <li>
+    <a class="dropdown-item" href="./netflixanalysis.html">
+ <span class="dropdown-text">Netflix Title Analysis</span></a>
+  </li>  
+    </ul>
+  </li>
+</ul>
+          </div> <!-- /navcollapse -->
+            <div class="quarto-navbar-tools">
+  <a href="" class="quarto-color-scheme-toggle quarto-navigation-tool  px-1" onclick="window.quartoToggleColorScheme(); return false;" title="Toggle dark mode"><i class="bi"></i></a>
+</div>
+      </div> <!-- /container-fluid -->
+    </nav>
+</header>
 <!-- content -->
-<div id="quarto-content" class="quarto-container page-columns page-rows-contents page-layout-article">
+<div id="quarto-content" class="quarto-container page-columns page-rows-contents page-layout-article page-navbar">
 <!-- sidebar -->
 <!-- margin-sidebar -->
     <div id="quarto-margin-sidebar" class="sidebar margin-sidebar">
